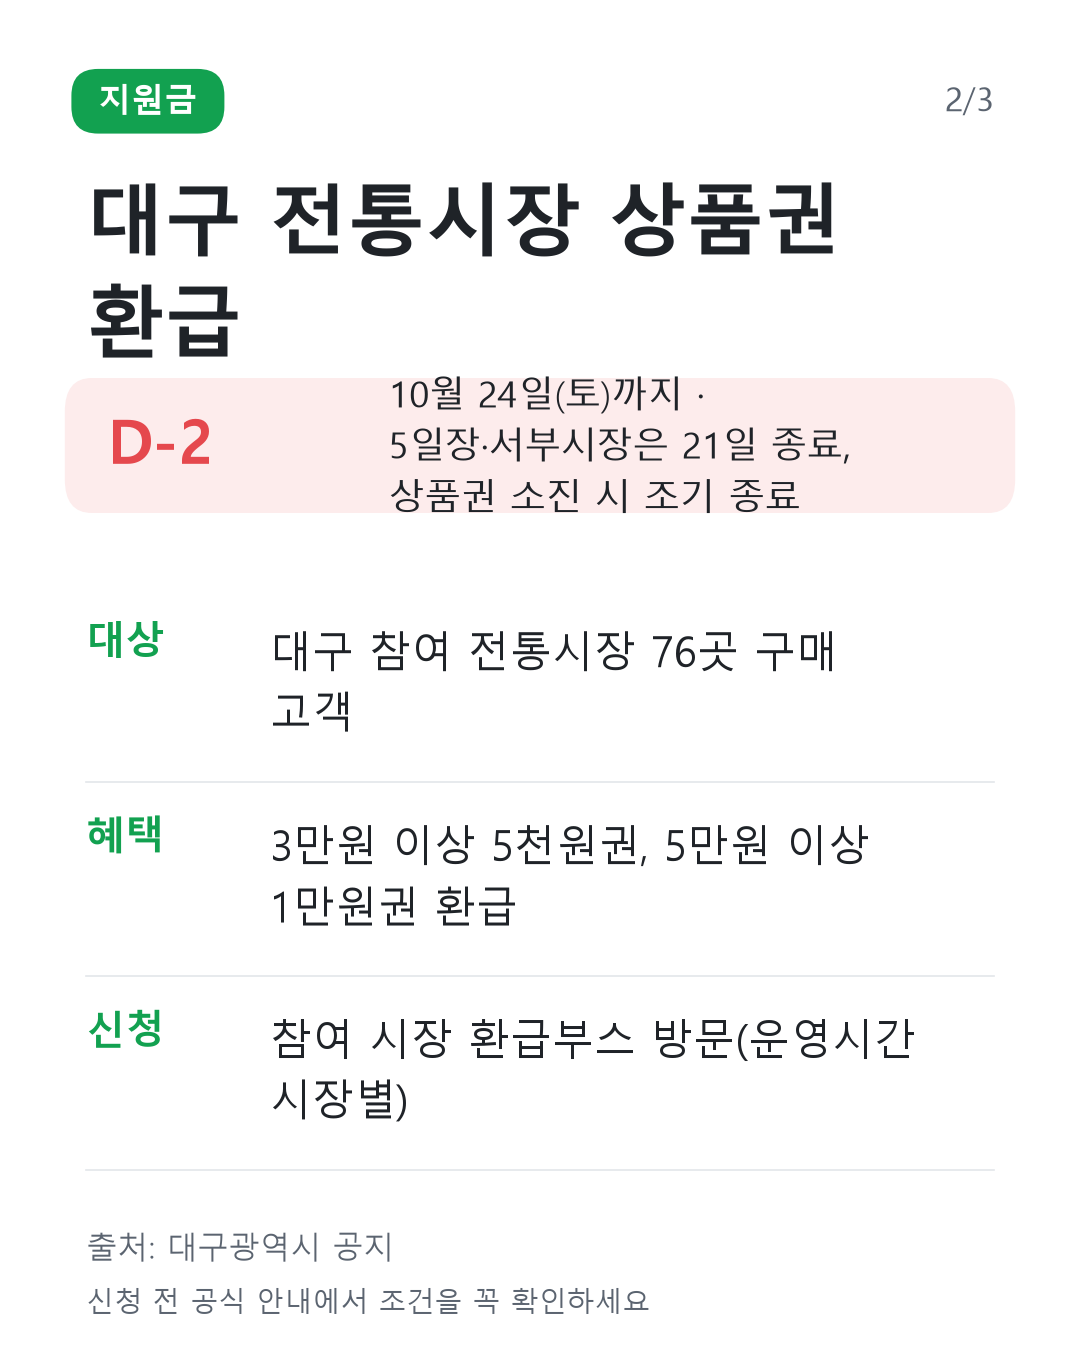
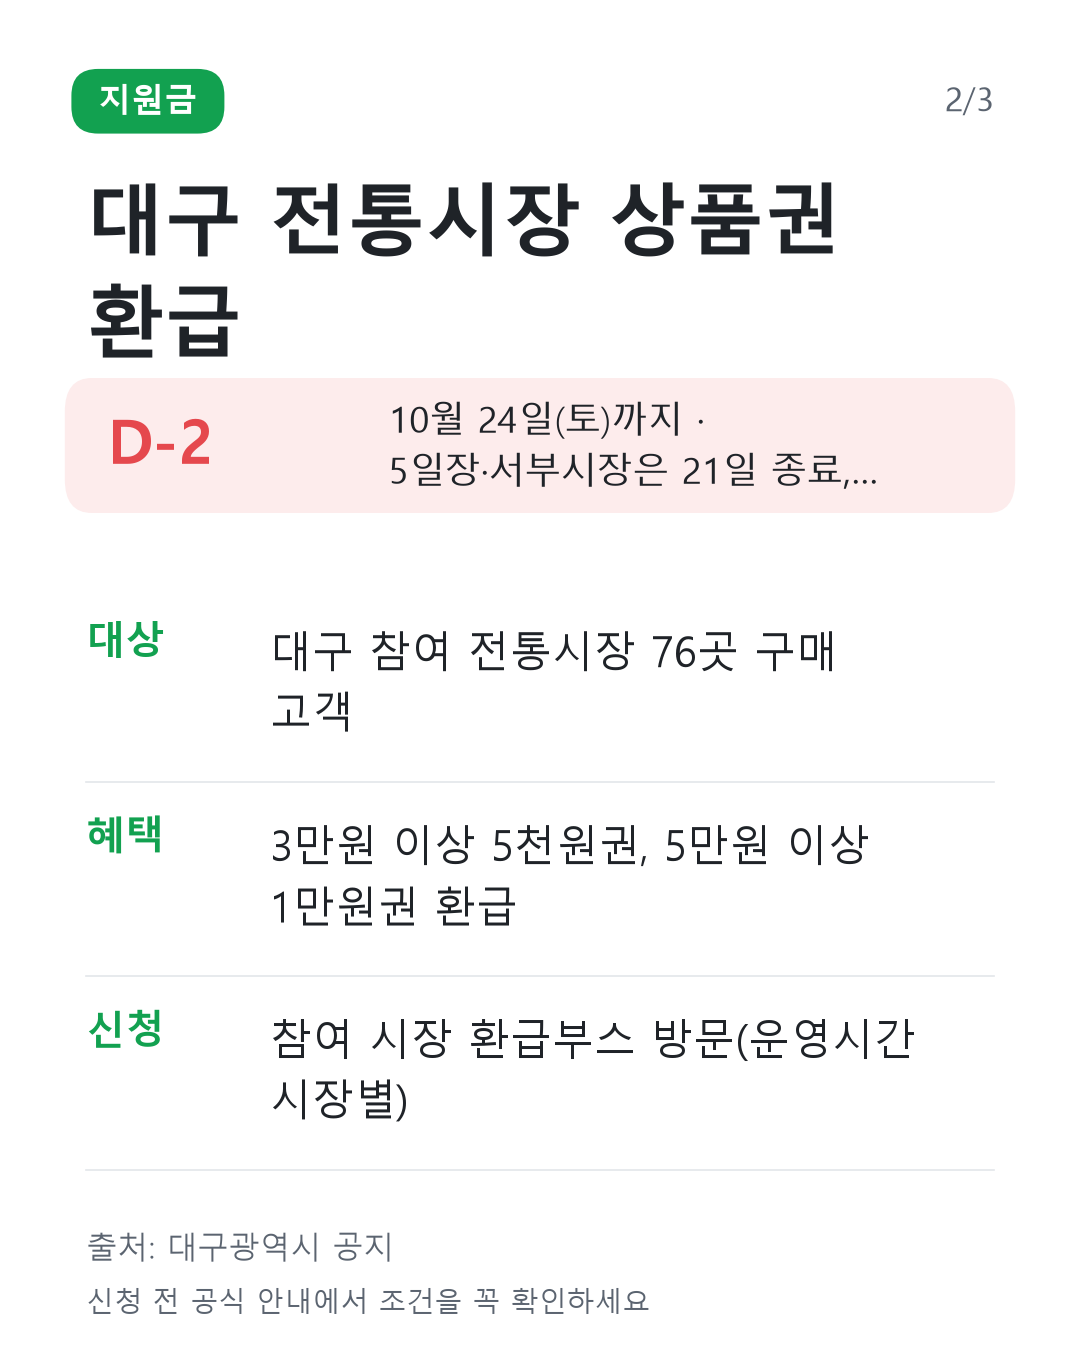
카드 마감 메모 2줄 제한

Changed region(s): [[0.3667, 0.28, 0.7944, 0.3733]]

diff --git a/deal_cards.py b/deal_cards.py
@@ -129,7 +129,10 @@ def draw_item(it, idx, total, post_date, out):
     panel(ax, 0.06, 0.62, 0.88, 0.10, color="#FDECEC")
     ax.text(0.10, 0.67, dday(post_date, dl), color=ACCENT, fontsize=44, fontweight="bold", va="center")
     note = f"{kdate(dl)}까지" + (f" · {it['deadline_note']}" if it.get("deadline_note") else "")
-    ax.text(0.36, 0.67, wrap(note, 20), color=TEXT, fontsize=26, va="center", linespacing=1.4)
+    lines = textwrap.wrap(note, 20)
+    if len(lines) > 2:  # 상자 안에 2줄까지만 — 넘치면 말줄임
+        lines = [lines[0], lines[1][:19] + "…"]
+    ax.text(0.36, 0.67, "\n".join(lines), color=TEXT, fontsize=26, va="center", linespacing=1.4)
 
     rows = [("대상", it["who"]), ("혜택", it["benefit"]), ("신청", it["how"])]
     y = 0.54

diff --git a/deals_draft.py b/deals_draft.py
@@ -153,6 +153,8 @@ def validate(d, target):
                     why = "이미 마감"
             except ValueError:
                 why = f"마감일 형식 오류({it['deadline']})"
+        if not why and len(it.get("deadline_note", "")) > 24:  # 카드 D-day 상자에 들어가게
+            it["deadline_note"] = it["deadline_note"][:23] + "…"
         (dropped.append(f"{it.get('title', '?')}: {why}") if why else keep.append(it))
     d["items"] = keep[:5]
     d["date"] = target.isoformat()
